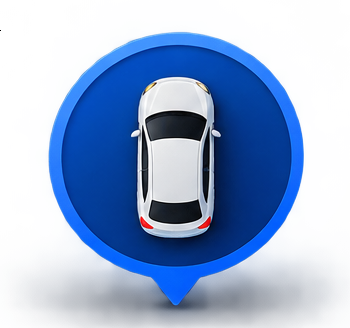
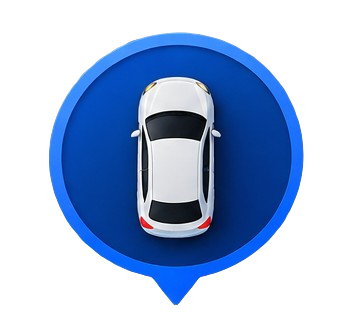
Update fleet web

diff --git a/fleet/flutter_bootstrap.js b/fleet/flutter_bootstrap.js
@@ -37,6 +37,6 @@ _flutter.buildConfig = {"engineRevision":"4c525dac5ebe5971c5708ef73558ed8edcf4a3
 
 _flutter.loader.load({
   serviceWorkerSettings: {
-    serviceWorkerVersion: "1692083627" /* Flutter's service worker is deprecated and will be removed in a future Flutter release. */
+    serviceWorkerVersion: "1968266909" /* Flutter's service worker is deprecated and will be removed in a future Flutter release. */
   }
 });
